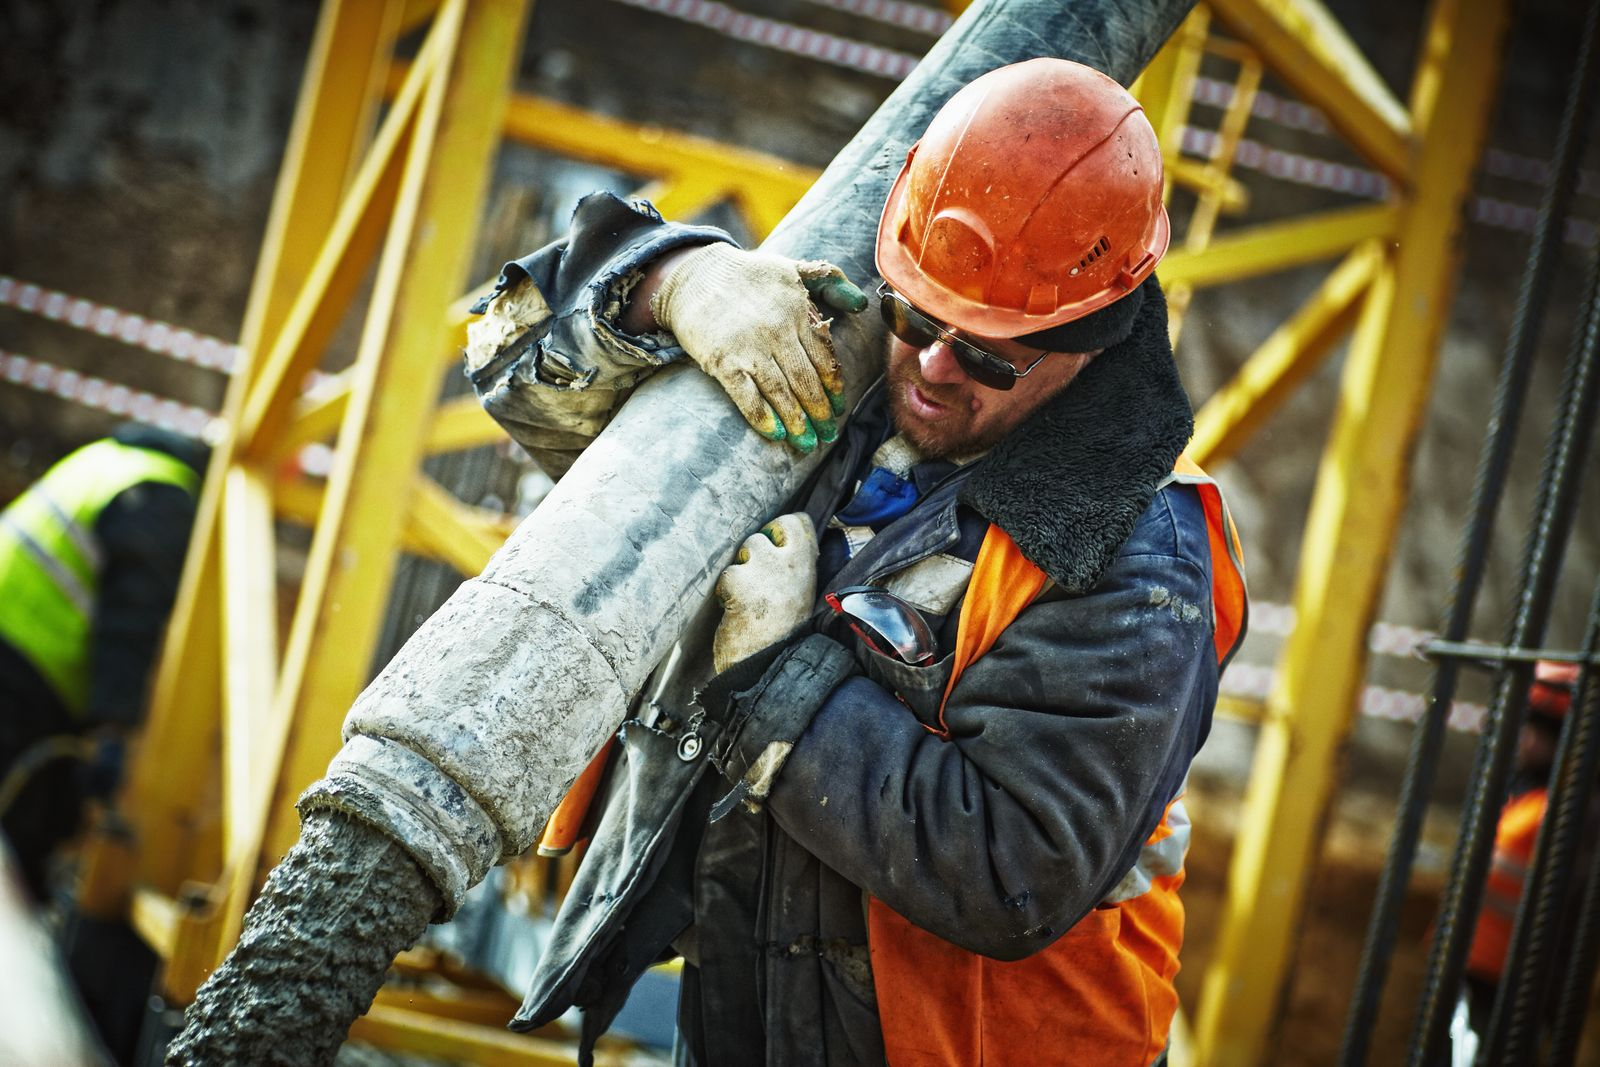
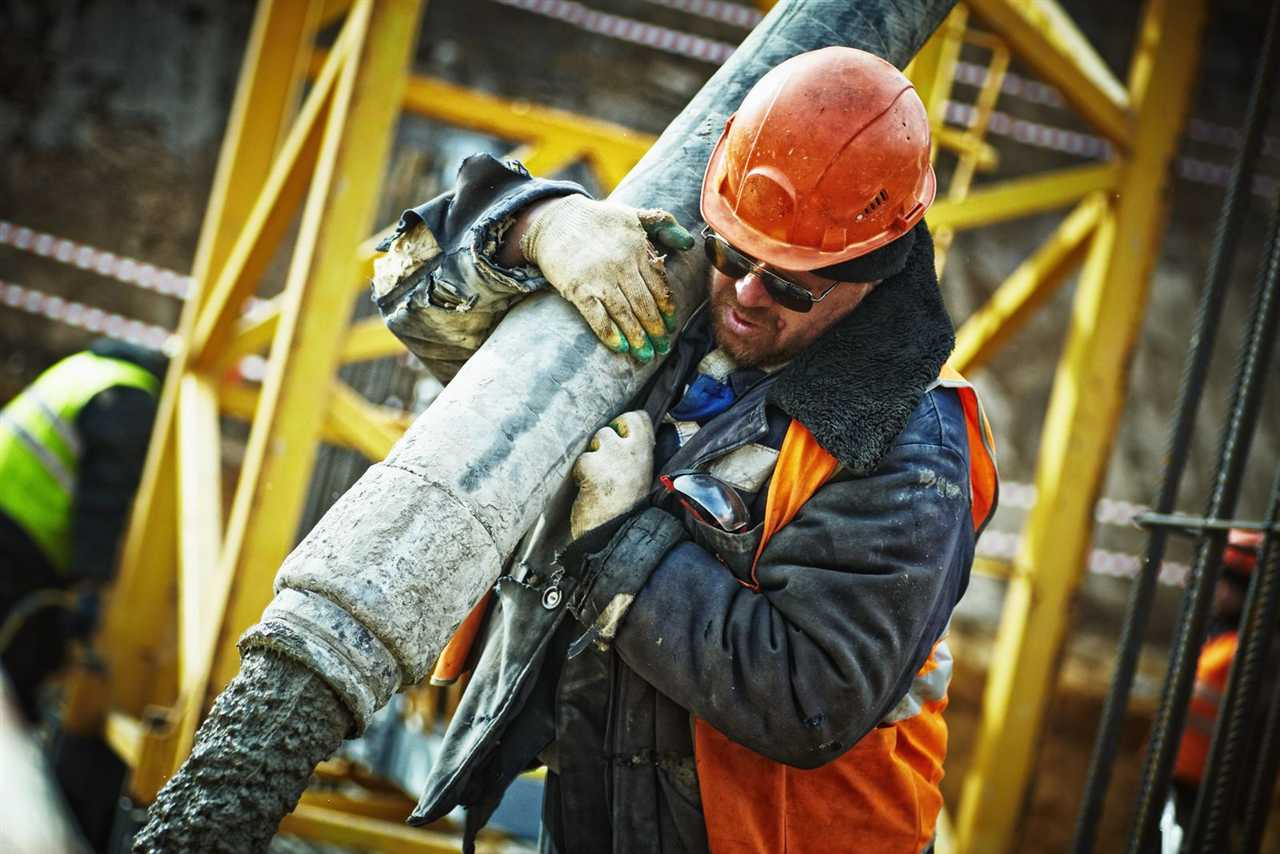
Further optimize image delivery: replace existing w= and q= parameters on Unsplash/Pexels and compress hero-bg.jpg

Changed region(s): [[0.75, 0.4871, 0.7812, 0.5176], [0.2812, 0.274, 0.3125, 0.3044], [0.1562, 0.8525, 0.1875, 0.8829]]

diff --git a/src/utils/imageOptimizer.ts b/src/utils/imageOptimizer.ts
@@ -1,11 +1,11 @@
 /**
  * High-performance image URL optimizer for Pexels, Unsplash, and remote CDN images.
- * Automatically appends responsive width and compression parameters to shrink
- * image payloads by up to 95% (e.g., from 5MB raw images down to 80-120KB).
+ * Automatically appends and replaces responsive width and compression parameters to shrink
+ * image payloads by up to 95% (e.g., from 5MB raw images down to 30-80KB).
  */
-export function optimizeImageUrl(url: string | undefined | null, width = 800, quality = 75): string {
+export function optimizeImageUrl(url: string | undefined | null, width = 600, quality = 70): string {
   if (!url || typeof url !== 'string' || !url.trim()) return '';
-  const trimmed = url.trim();
+  let trimmed = url.trim();
 
   if (trimmed.startsWith('data:') || trimmed.startsWith('blob:')) {
     return trimmed;
@@ -13,18 +13,29 @@ export function optimizeImageUrl(url: string | undefined | null, width = 800, qu
 
   // Pexels CDN optimization
   if (trimmed.includes('images.pexels.com')) {
-    if (!trimmed.includes('w=') && !trimmed.includes('h=')) {
+    if (trimmed.includes('w=')) {
+      trimmed = trimmed.replace(/w=\d+/, `w=${width}`);
+    } else {
       const sep = trimmed.includes('?') ? '&' : '?';
-      return `${trimmed}${sep}auto=compress&cs=tinysrgb&w=${width}&dpr=1`;
+      trimmed = `${trimmed}${sep}auto=compress&cs=tinysrgb&w=${width}&dpr=1`;
     }
+    return trimmed;
   }
 
   // Unsplash CDN optimization
   if (trimmed.includes('images.unsplash.com')) {
-    if (!trimmed.includes('w=') && !trimmed.includes('h=')) {
+    if (trimmed.includes('w=')) {
+      trimmed = trimmed.replace(/w=\d+/, `w=${width}`);
+    } else {
       const sep = trimmed.includes('?') ? '&' : '?';
-      return `${trimmed}${sep}auto=format&fit=crop&w=${width}&q=${quality}`;
+      trimmed = `${trimmed}${sep}auto=format&fit=crop&w=${width}`;
     }
+    if (trimmed.includes('q=')) {
+      trimmed = trimmed.replace(/q=\d+/, `q=${quality}`);
+    } else {
+      trimmed = `${trimmed}&q=${quality}`;
+    }
+    return trimmed;
   }
 
   return trimmed;
